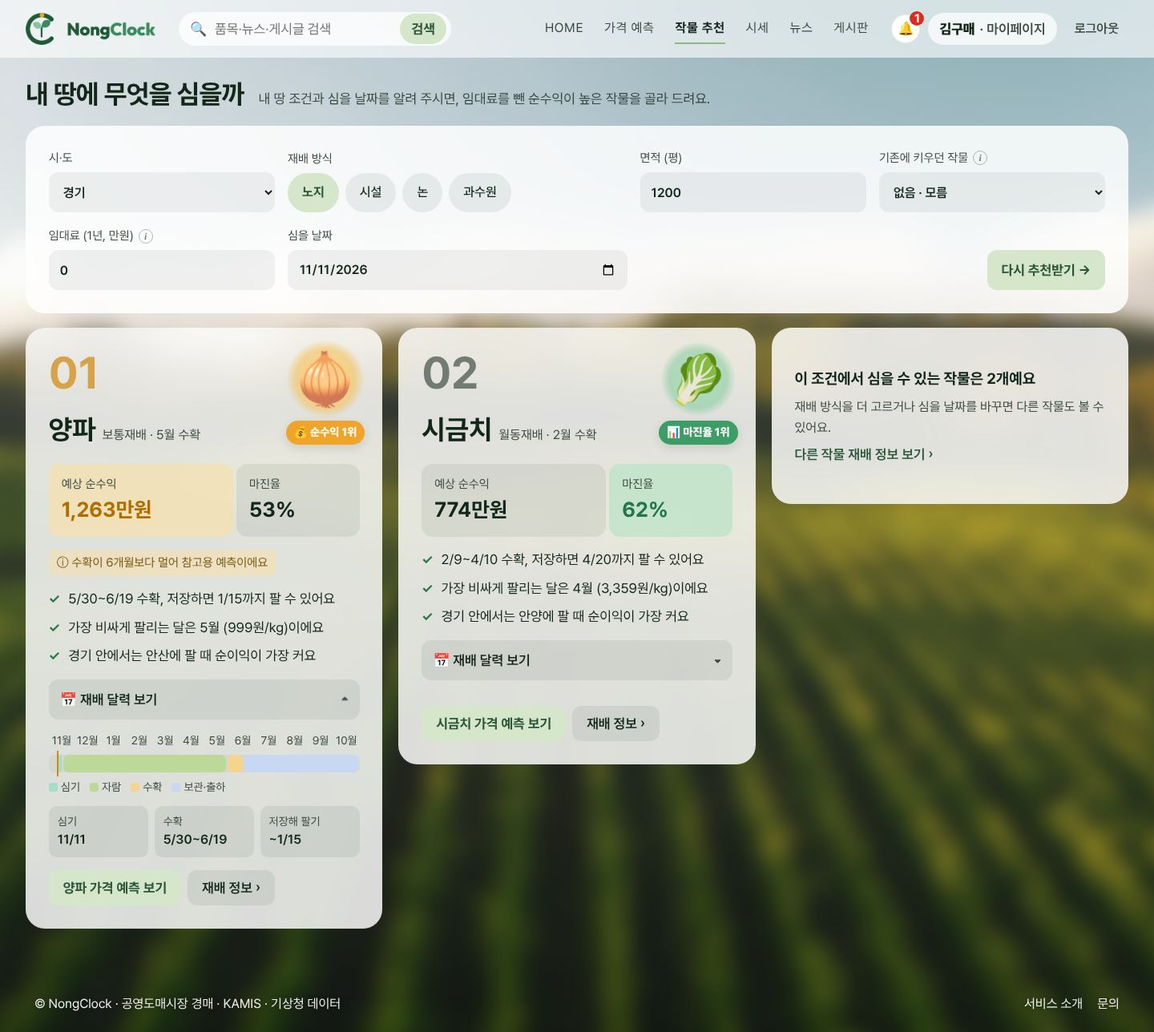
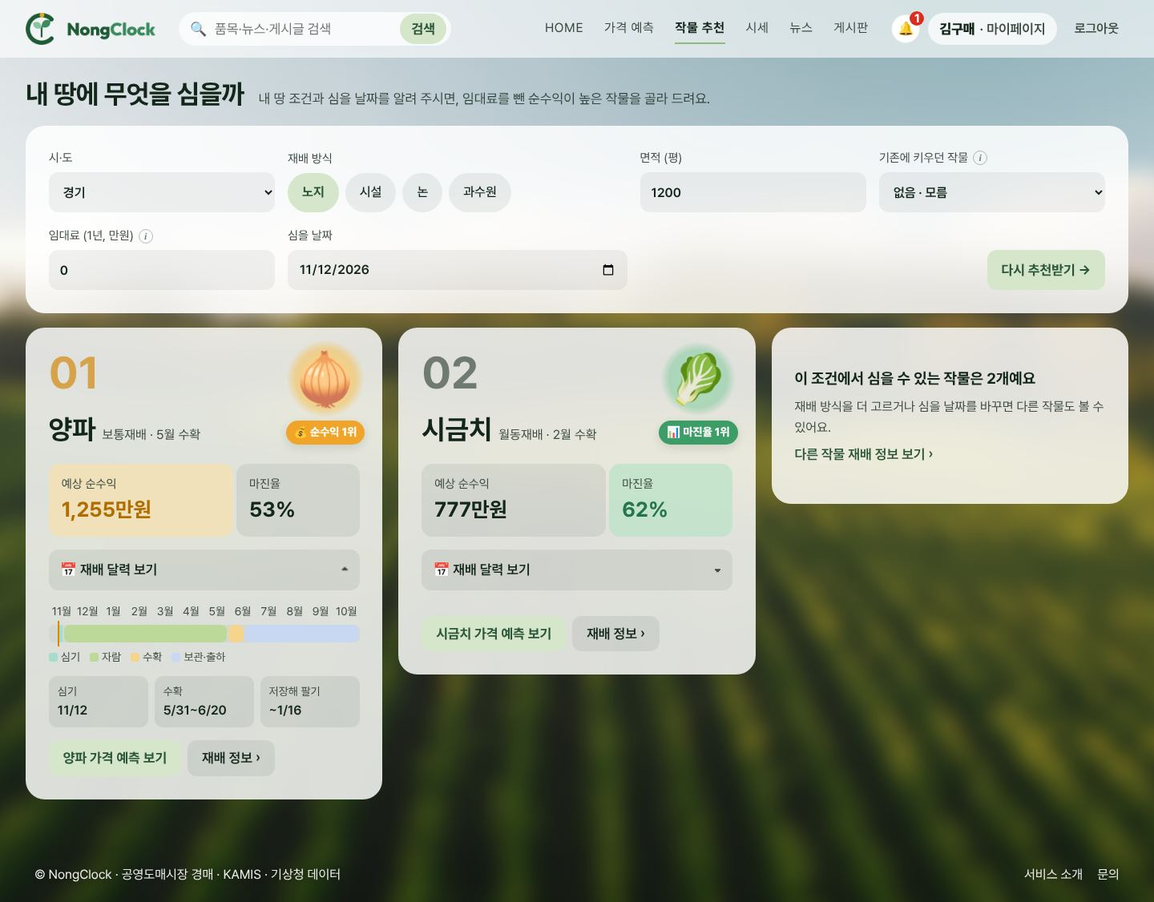
feat(frontend): 가격 예측 계절 패턴·월별 반입량 카드 · 그래프 카드 높이 맞춤 · 작물 추천 문구 정리
가격 예측
- 결과 아래에 "계절 패턴"(월평균 경락가: 평년 · 올해 실제 · 남은 달 예측)과
  "월별 반입량"(평년 · 올해, 이번 달은 오늘까지) 카드 추가 (components/SeasonCharts.jsx)
  - 아직 예시 데이터(mocks/seasonal.js, 제목 옆 "예시 데이터"). 실제 연결 제안 GET /api/prices/{item}/monthly
- 그래프 카드가 오른쪽 열 높이만큼 늘어나고 그래프가 남는 높이를 채움 (아래 빈 공간 없음)
- "6개월보다 먼 예측이라 참고용" 안내 뺌 (예측이 덜 정확한 품목·기간 안내는 유지)

작물 추천
- 카드의 추천 이유 3줄(수확·저장 · 비싼 달 · 시장) 뺌 — 작물 정보 "추천 결과"에서만
- "수확이 6개월보다 멀어 참고용" 안내를 모든 작물에서 뺌

- UI 설계서 변경 이력 · 캡처 교체

Claude-Session: https://claude.ai/code/session_01A5Bz2YFgwDEj3wEsMnATng

diff --git a/frontend/src/pages/Predict.jsx b/frontend/src/pages/Predict.jsx
@@ -1,9 +1,10 @@
-import { useRef, useState } from "react";
+import { useEffect, useRef, useState } from "react";
 import { useSearchParams } from "react-router-dom";
 import { getItems, predict } from "../api/ml";
 import { getMarkets } from "../api/market";
 import { Async, useAsync, useNarrow } from "../components/common";
 import PredictSearch, { marketsIn, regionsOf } from "../components/PredictSearch";
+import SeasonCharts from "../components/SeasonCharts";
 import { ITEMS50, itemOf, varietyFactor, varietyOf } from "../mocks/items50";
 import { LOW_ACCURACY } from "../mocks/accuracy";
 import { addDays, daysBetween, md, todayIso, won } from "../utils/format";
@@ -51,9 +52,27 @@ function checkpoints(p, horizon) {
 }
 
 /** 그래프: 시장마다 선 (지난 8주 얇게 → 예측 굵게). 시장 하나면 예측 범위 띠 */
+/** 그래프 칸 크기 (넓은 화면은 카드가 오른쪽 열 높이만큼 늘어나고, 그래프가 남는 높이를 채움) */
+function useBox() {
+  const ref = useRef(null);
+  const [box, setBox] = useState(null);
+  useEffect(() => {
+    const el = ref.current;
+    if (!el || typeof ResizeObserver === "undefined") return undefined;
+    const ro = new ResizeObserver(([e]) => setBox({ w: e.contentRect.width, h: e.contentRect.height }));
+    ro.observe(el);
+    return () => ro.disconnect();
+  }, []);
+  return [ref, box];
+}
+
 function Chart({ series, horizon }) {
   const narrow = useNarrow();
-  const W = narrow ? 420 : 900, H = narrow ? 380 : 360, L = narrow ? 52 : 64, R = narrow ? 14 : 24, T = 30, B = 40;
+  const [boxRef, box] = useBox();
+  const W = narrow ? 420 : 900;
+  // 칸의 가로세로 비율대로 그림 높이를 정함 (글씨 크기는 그대로, 세로로 늘어남)
+  const H = box?.w ? Math.max(narrow ? 340 : 300, Math.min(narrow ? 520 : 560, Math.round((box.h / box.w) * W))) : narrow ? 380 : 360;
+  const L = narrow ? 52 : 64, R = narrow ? 14 : 24, T = 30, B = 40;
   const one = series.length === 1 ? series[0] : null;
   const all = [...series[0].past, ...series[0].fut]; // x 축 = 첫 시장 기준 (시장마다 날짜는 같음)
   const k = series[0].past.length - 1;
@@ -80,6 +99,7 @@ function Chart({ series, horizon }) {
   })();
   const pts = (arr) => arr.map((x) => `${X(x.date)},${Y(x.price)}`).join(" ");
   return (
+    <div className="pv-chartbox" ref={boxRef}>
     <svg className="pv-chart" viewBox={`0 0 ${W} ${H}`} role="img" aria-label={`지난 8주 실제 가격과 ${afterLabel(horizon)}까지 예측, 시장별`}>
       {ticks.map((v) => (
         <g key={v}>
@@ -106,6 +126,7 @@ function Chart({ series, horizon }) {
       ))}
       <circle cx={X(now)} cy={Y(series[0].past[k].price)} r="4.5" fill="#13261a" />
     </svg>
+    </div>
   );
 }
 
@@ -162,7 +183,7 @@ function MarketCards({ series, horizon }) {
 }
 
 function Result({ r }) {
-  const { series, horizon, regionName, itemName, item } = r;
+  const { series, horizon, regionName, itemName, item, baseName } = r;
   if (!series.length) return <div className="card state">이 지역 도매시장에서는 이 품목을 거래하지 않아요. 다른 지역을 골라 주세요.</div>;
   const top = series.reduce((a, s) => (s.best.price > a.best.price ? s : a));
   const gain = top.best.price - top.base;
@@ -214,11 +235,13 @@ function Result({ r }) {
           </div>
           <ul className="pv-notes">
             {p.alerts.map((a) => <li key={a.start}><span className="ic warn">⚠</span>{md(a.start)}~{md(a.end)} 이상기후 주의 · 이 기간 예측은 참고만 하세요</li>)}
-            {p.reference && <li><span className="ic">🔖</span>{p.reference === "far" ? "6개월보다 먼 예측이라 참고용이에요" : "이 품목·기간은 예측이 덜 정확해 참고용이에요"}</li>}
-            {!p.alerts.length && !p.reference && <li><span className="ic ok">✓</span>이 기간에는 이상기후 주의 구간이 없어요</li>}
+            {p.reference === "baseline" && <li><span className="ic">🔖</span>이 품목·기간은 예측이 덜 정확해 참고용이에요</li>}
+            {!p.alerts.length && p.reference !== "baseline" && <li><span className="ic ok">✓</span>이 기간에는 이상기후 주의 구간이 없어요</li>}
           </ul>
         </section>
       </div>
+      {/* 계절 패턴 · 월별 반입량 (품목 단위, 전국) — 예시 데이터는 지금 시세 평균에 맞춰 크기 조정 */}
+      <div className="pv-wide"><SeasonCharts item={item} itemName={baseName} anchor={Math.round(series.reduce((a, s) => a + s.base, 0) / series.length)} /></div>
     </div>
   );
 }
@@ -265,7 +288,7 @@ export default function Predict() {
     });
     const regionName = q.region === "national" ? "전국 도매시장" : `${q.region} 도매시장 ${ms.length}곳`;
     const itemName = (res[0]?.item_name ?? itemOf(q.item)?.name) + (variety ? ` ${variety.label}` : "");
-    return { series, horizon, regionName, itemName, item: q.item };
+    return { series, horizon, regionName, itemName, item: q.item, baseName: res[0]?.item_name ?? itemOf(q.item)?.name ?? "" };
   }, [!!opts, q.region, q.item, q.variety, q.to]);
   const search = (d) => setParams({ item: d.item, ...(d.variety ? { variety: d.variety } : {}), region: d.region, to: d.to }, { replace: true });
 

diff --git a/frontend/src/components/SeasonCharts.jsx b/frontend/src/components/SeasonCharts.jsx
@@ -1,0 +1,95 @@
+import { getSeasonal } from "../api/market";
+import { Async, useAsync, useNarrow } from "./common";
+import { won } from "../utils/format";
+
+/* 가격 예측 화면 아래 "계절 패턴 · 월별 반입량" 두 카드 (11-12 샘플)
+   계절 패턴: 월평균 경락가 — 평년(최근 5년 평균, 회색) · 올해 실제(검정) · 남은 달 예측(주황 점선)
+   월별 반입량: 도매시장에 들어온 양(톤) — 평년 · 올해 (이번 달은 오늘까지라 속이 빈 점)
+   데이터: getSeasonal(item) — 지금은 예시 데이터 (Spring API 생기면 api/market.js 안쪽만 바꿈) */
+const C = { normal: "#7c867f", actual: "#13261a", forecast: "#d9600b" };
+const niceStep = (range) => [1, 2, 5, 10, 20, 50, 100, 200, 500, 1000, 2000, 5000, 10000, 20000].find((s) => range / s <= 5) ?? 50000;
+
+function MonthChart({ lines, label, unit }) {
+  const narrow = useNarrow();
+  const W = narrow ? 420 : 640, H = narrow ? 300 : 280, L = narrow ? 58 : 66, R = 16, T = 18, B = 34;
+  const vals = lines.flatMap((l) => l.data.filter((v) => v != null));
+  const step = niceStep(Math.max(...vals) - Math.min(0, ...vals) || 1);
+  const lo = unit === "톤" ? 0 : Math.floor(Math.min(...vals) / step) * step; // 물량은 0부터
+  const hi = Math.ceil(Math.max(...vals) / step) * step;
+  const X = (m) => L + ((m - 1) * (W - L - R)) / 11;
+  const Y = (v) => T + ((hi - v) / (hi - lo || 1)) * (H - T - B);
+  const ticks = [];
+  for (let v = lo; v <= hi; v += step) ticks.push(v);
+  const path = (data) => data.map((v, i) => (v == null ? null : `${X(i + 1)},${Y(v)}`)).filter(Boolean).join(" ");
+  return (
+    <svg className="sc-chart" viewBox={`0 0 ${W} ${H}`} role="img" aria-label={label}>
+      {ticks.map((v) => (
+        <g key={v}>
+          <line x1={L} x2={W - R} y1={Y(v)} y2={Y(v)} stroke="rgba(19,38,26,.08)" />
+          <text x={L - 10} y={Y(v) + 5} textAnchor="end" fontSize="14" fill="rgba(19,38,26,.75)">{won(v)}</text>
+        </g>
+      ))}
+      {Array.from({ length: 12 }, (_, i) => i + 1).filter((m) => !narrow || m % 2 === 1).map((m) => (
+        <text key={m} x={X(m)} y={H - 8} textAnchor="middle" fontSize="14" fill="rgba(19,38,26,.75)">{m}월</text>
+      ))}
+      {lines.map((l) => (
+        <g key={l.key}>
+          <polyline points={path(l.data)} fill="none" stroke={l.color} strokeWidth={l.key === "normal" ? 2 : 2.5}
+            strokeDasharray={l.dash ? "7 6" : undefined} strokeLinejoin="round" />
+          {l.data.map((v, i) => v != null && !(l.dash && i === l.data.findIndex((x) => x != null)) && (
+            <circle key={i} cx={X(i + 1)} cy={Y(v)} r={l.key === "normal" ? 3.5 : 4.5}
+              fill={l.hollow === i + 1 ? "#fff" : l.color} stroke={l.color} strokeWidth="2" />
+          ))}
+        </g>
+      ))}
+    </svg>
+  );
+}
+
+function Card({ title, sub, sample, legend, children, src }) {
+  return (
+    <section className="card sc-card">
+      <div className="sc-head">
+        <h2>{title}</h2><span className={`sc-tag ${sample ? "ex" : ""}`}>{sample ? "예시 데이터" : "실제"}</span>
+      </div>
+      <p className="sc-sub">{sub}</p>
+      <div className="sc-legend">{legend.map(([t, c, dash]) => <span key={t}><i className={dash ? "dash" : ""} style={{ "--c": c }} />{t}</span>)}</div>
+      {children}
+      <p className="sc-src"><b>자료</b> {src}</p>
+    </section>
+  );
+}
+
+export default function SeasonCharts({ item, itemName, anchor }) {
+  const state = useAsync(() => getSeasonal(item, { anchor }), [item, anchor]);
+  return (
+    <Async state={state} minHeight={360}>
+      {(d) => {
+        const [y0, y1] = d.normal_years;
+        return (
+          <div className="sc-grid">
+            <Card title="계절 패턴" sample={d.sample} src={d.source}
+              sub={`${itemName} 월평균 경락가 (원/kg, 전국) · 평년 = ${y0}~${y1}년 평균`}
+              legend={[["평년", C.normal], [`${d.year}년`, C.actual], ["예측", C.forecast, true]]}>
+              <MonthChart unit="원" label={`${itemName} 월평균 경락가: 평년, ${d.year}년 실제와 예측`}
+                lines={[
+                  { key: "normal", data: d.price.normal, color: C.normal },
+                  { key: "actual", data: d.price.actual, color: C.actual },
+                  { key: "forecast", data: d.price.forecast, color: C.forecast, dash: true },
+                ]} />
+            </Card>
+            <Card title="월별 반입량" sample={d.sample} src={`${d.source} · 국산 물량`}
+              sub={`도매시장에 들어온 ${itemName} 물량 (톤) · ${d.volume.partial_month}월은 오늘까지`}
+              legend={[["평년", C.normal], [`${d.year}년`, C.actual]]}>
+              <MonthChart unit="톤" label={`${itemName} 월별 반입량: 평년과 ${d.year}년`}
+                lines={[
+                  { key: "normal", data: d.volume.normal, color: C.normal },
+                  { key: "actual", data: d.volume.actual, color: C.actual, hollow: d.volume.partial_month },
+                ]} />
+            </Card>
+          </div>
+        );
+      }}
+    </Async>
+  );
+}

diff --git a/frontend/src/pages/Recommend.jsx b/frontend/src/pages/Recommend.jsx
@@ -41,7 +41,8 @@ function reasonLines(o, region) {
   if (o.ph) out.push(PH_LINE[o.ph.kind](o));
   return out;
 }
-const refLine = (o) => ({ far: "수확이 6개월보다 멀어 참고용 예측이에요", baseline: "이 작물·기간은 예측이 덜 정확해 참고용이에요" })[o.reference] ?? "";
+// 참고용 안내는 예측이 덜 정확한 작물·기간만 (수확이 멀다는 이유로는 띄우지 않음, 11-12)
+const refLine = (o) => (o.reference === "baseline" ? "이 작물·기간은 예측이 덜 정확해 참고용이에요" : "");
 
 const request = (f) => ({
   region: f.region,
@@ -132,7 +133,7 @@ function MiniCalendar({ o }) {
   );
 }
 
-function CropCard({ o, rank, region, topProfit, topRate, goInfo }) {
+function CropCard({ o, rank, topProfit, topRate, goInfo }) {
   const [open, setOpen] = useState(rank === 0);
   const profit = o === topProfit, rate = o === topRate;
   return (
@@ -148,8 +149,7 @@ function CropCard({ o, rank, region, topProfit, topRate, goInfo }) {
         <div className={profit ? "hi-profit" : ""}><span>예상 순수익</span><b>{man(o.margin)}</b></div>
         <div className={rate ? "hi-rate" : ""}><span>마진율</span><b>{Math.round(o.margin_rate)}%</b></div>
       </div>
-      {o.reference && <span className="rc-ref">ⓘ {refLine(o)}</span>}
-      <ul className="rc-why">{reasonLines(o, region).map((w) => <li key={w}>{w}</li>)}</ul>
+      {refLine(o) && <span className="rc-ref">ⓘ {refLine(o)}</span>}
       <button type="button" className="rc-toggle" aria-expanded={open} onClick={() => setOpen(!open)}><span>📅 재배 달력 보기</span><span className="ar">▾</span></button>
       <div className="rc-exp"><div><MiniCalendar o={o} /></div></div>
       <div className="rc-acts">
@@ -171,7 +171,7 @@ function Results({ state, form, goInfo }) {
         return (
           <>
             <div className="rc-top3">
-              {top.map((o, i) => <CropCard key={o.crop + o.cropping} o={o} rank={i} region={form.region} topProfit={topProfit} topRate={topRate} goInfo={goInfo} />)}
+              {top.map((o, i) => <CropCard key={o.crop + o.cropping} o={o} rank={i} topProfit={topProfit} topRate={topRate} goInfo={goInfo} />)}
               {top.length < 3 && (
                 <div className="card rc-few">
                   <b>이 조건에서 심을 수 있는 작물은 {top.length}개예요</b>
@@ -265,7 +265,7 @@ function WhyCard({ crop, cropName, emoji, rec, form, info, goLand }) {
           <span className="rc-badge">🏆 내 조건에서 {rank + 1}위</span>
           <p className="rc-txt">{form.region} {LAND_TYPES[form.type]} {won(form.area)}평에 <b>{md(o.plant_date)}</b> 심으면 임대료를 빼고<br /><b>약 {man(o.margin)}</b>이 남을 것으로 보여요.</p>
           <div className="rc-nums"><div><span>예상 순수익</span><b>{man(o.margin)}</b></div><div><span>마진율</span><b>{Math.round(o.margin_rate)}%</b></div><div><span>수확</span><b>{md(o.harvest_start)}~{md(o.harvest_end)}</b></div></div>
-          {o.reference && <span className="rc-ref">ⓘ {refLine(o)}</span>}
+          {refLine(o) && <span className="rc-ref">ⓘ {refLine(o)}</span>}
           <ul className="rc-why">{[...reasonLines(o, form.region), ...(windowLine ? [windowLine] : [])].map((t) => <li key={t}>{t}</li>)}</ul>
         </>
       ) : (

diff --git a/frontend/src/mocks/seasonal.js b/frontend/src/mocks/seasonal.js
@@ -1,0 +1,39 @@
+// [샘플] 가격 예측 화면의 "계절 패턴 · 월별 반입량" 예시 데이터 (전국 도매시장, 품목 단위).
+// 실제는 경매원장(price_unit_daily) 월별 집계: 월평균 경락가 = 그 달 총 금액 ÷ 총 물량, 반입량 = 그 달 총 물량(톤).
+// 평년 = 최근 5년(올해 빼고) 같은 달 평균. 올해는 이번 달까지 실제, 남은 달은 예측.
+import { ITEMS50 } from "./items50";
+import { seeded, todayIso } from "../utils/format";
+
+const r0 = (n) => Math.round(n);
+export function mockSeasonal(item, { anchor, today = todayIso() } = {}) {
+  const r = seeded(`seasonal|${item}`);
+  const year = Number(today.slice(0, 4));
+  const cur = Number(today.slice(5, 7)); // 이번 달 (1~12)
+  const idx = Math.max(0, ITEMS50.findIndex((i) => i.code === item));
+  const base = 800 + ((idx * 937) % 4200) + r() * 600; // 품목마다 다른 가격대 (원/kg)
+  const peak = 1 + Math.floor(r() * 12); // 가장 비싼 달
+  const amp = 0.15 + r() * 0.25;
+  const curve = (m) => 1 + amp * Math.cos((2 * Math.PI * (m - peak)) / 12);
+  const tons = 2000 + r() * 28000; // 한 달 반입량 규모 (톤)
+  const harvest = ((peak + 5) % 12) + 1; // 물량은 대개 가격이 낮은 철에 많다
+  const vcurve = (m) => Math.max(0.03, 1 + 0.9 * Math.cos((2 * Math.PI * (m - harvest)) / 12));
+  const months = Array.from({ length: 12 }, (_, i) => i + 1);
+  const normal = months.map((m) => r0(base * curve(m) * (0.95 + r() * 0.1)));
+  const actual = months.map((m) => (m <= cur ? r0(base * curve(m) * (0.8 + r() * 0.45)) : null));
+  // 예측: 이번 달 실제에서 이어서 계절 흐름대로 (이번 달 점에서 시작)
+  const forecast = months.map((m) => (m < cur ? null : m === cur ? actual[m - 1] : r0((actual[cur - 1] * curve(m)) / curve(cur) * (0.97 + r() * 0.06))));
+  // 예시 데이터를 예측 화면의 지금 시세(anchor)에 맞춰 크기만 조정 (그래프 사이 숫자가 어긋나 보이지 않게)
+  if (anchor && actual[cur - 1]) {
+    const f = anchor / actual[cur - 1];
+    for (const arr of [normal, actual, forecast]) arr.forEach((v, i) => { if (v != null) arr[i] = r0(v * f); });
+  }
+  const vNormal = months.map((m) => r0(tons * vcurve(m) * (0.9 + r() * 0.2)));
+  const vActual = months.map((m) => (m <= cur ? r0(tons * vcurve(m) * (0.75 + r() * 0.5) * (m === cur ? Number(today.slice(8, 10)) / 30 : 1)) : null));
+  return {
+    item, year, current_month: cur, normal_years: [year - 5, year - 1],
+    price: { normal, actual, forecast },
+    volume: { normal: vNormal, actual: vActual, partial_month: cur },
+    source: `경매원장 ${year - 6}~${year} 월별`,
+    sample: true,
+  };
+}

diff --git a/frontend/src/pages/predict.css b/frontend/src/pages/predict.css
@@ -86,3 +86,29 @@
 @media (max-width: 1200px) { .pv-quick { grid-column: 2; } }  /* 3칸: 날짜는 둘째 줄 가운데 */
 @media (max-width: 640px) { .pv-quick { grid-column: 1; grid-template-columns: 1fr 1fr; } }   /* 2칸: 날짜는 셋째 줄 왼쪽, 버튼은 두 줄 */
 @media (max-width: 640px) { .pv-fields select.input { font-size: 16px; padding-left: 12px; } }
+
+/* 계절 패턴 · 월별 반입량 (11-12) */
+.pv-wide { grid-column: 1 / -1; min-width: 0; }
+.sc-grid { display: grid; grid-template-columns: repeat(2, minmax(0, 1fr)); gap: 20px; }
+.sc-card { display: grid; gap: 8px; }
+.sc-head { display: flex; align-items: center; gap: 10px; }
+.sc-head h2 { margin: 0; font-size: 22px; }
+.sc-tag { font-size: 13px; font-weight: 700; padding: 3px 10px; border-radius: 999px; background: var(--accent); color: var(--brand); }
+.sc-tag.ex { background: rgba(19, 38, 26, 0.07); color: rgba(19, 38, 26, 0.7); }
+.sc-sub { margin: 0; font-size: 15px; color: var(--muted); }
+.sc-legend { display: flex; gap: 18px; flex-wrap: wrap; font-size: 15px; color: rgba(19, 38, 26, 0.85); margin-top: 4px; }
+.sc-legend span { display: inline-flex; align-items: center; gap: 7px; }
+.sc-legend i { width: 18px; height: 0; border-top: 3px solid var(--c); }
+.sc-legend i.dash { border-top-style: dashed; }
+.sc-chart { width: 100%; height: auto; display: block; }
+.sc-src { margin: 0; font-size: 14px; color: var(--muted); } .sc-src b { color: var(--ink); margin-right: 4px; }
+@media (max-width: 1200px) { .sc-grid { grid-template-columns: 1fr; } }
+
+/* 그래프 카드가 오른쪽 열 높이에 맞춰 늘어나고, 그래프가 남는 높이를 채움 (아래 빈 공간 없음, 11-12) */
+.pv-grid { align-items: stretch; }
+.pv-side { align-content: start; }
+.pv-main { display: flex; flex-direction: column; }
+.pv-chartbox { position: relative; flex: 1 1 auto; min-height: 320px; margin-top: 8px; }
+.pv-chartbox .pv-chart { position: absolute; inset: 0; width: 100%; height: 100%; margin: 0; }
+@media (max-width: 1200px) { .pv-chartbox { flex: none; min-height: 0; aspect-ratio: 900 / 380; } }
+@media (max-width: 640px) { .pv-chartbox { aspect-ratio: 420 / 400; } }

diff --git a/frontend/src/api/market.js b/frontend/src/api/market.js
@@ -8,6 +8,7 @@ import {
 } from "../mocks/market";
 import { mockRegionalWeather } from "../mocks/weather";
 import { mockMarketIndex } from "../mocks/marketIndex";
+import { mockSeasonal } from "../mocks/seasonal";
 import { varietyFactor, varietyOf } from "../mocks/items50";
 
 // [샘플] 품종: 화면은 item 자리에 "품목코드~품종id" 를 넘긴다. 품종 가격 = 품목 가격 × 품종 계수, 반입량 = 품목 반입량 × 품종 물량 비중
@@ -88,3 +89,6 @@ export const getMarketCompare = (item) => (REAL ? real("/prices/{item}/markets")
 
 /** 홈 날씨 지도: 시·도 17곳의 오늘 날씨와 특보 (테스트 모드에서는 기상청 실제 값) */
 export const getRegionalWeather = () => (DATA_SOURCE === "live" ? liveRegionalWeather() : fake(mockRegionalWeather()));
+
+/** [샘플] 계절 패턴 · 월별 반입량 (가격 예측 화면). 아직 Spring API 없음 → 예시 데이터. 제안: GET /api/prices/{item}/monthly */
+export const getSeasonal = (item, { anchor } = {}) => fake(mockSeasonal(item, { anchor }));

diff --git a/docs/05_ui_spec.md b/docs/05_ui_spec.md
@@ -100,14 +100,17 @@ NongClock(농클락, 옛 이름 팜비드) 사용자 사이트(`/`)와 관리자
 | 구역 | 보여 주는 것 |
 |---|---|
 | 큰 가격 | "품목 · 서울 도매시장 2곳 · 오늘부터 n주/n개월 뒤(날짜)까지" · **가장 비싼 시장·때의 예상가** · 그 시장 지금보다 ▲/▼ % · 정확도 낮은 품목은 "❗ 예측 정확도가 낮은 품목이에요" |
-| 그래프 (주 단위) | **지역 안 도매시장마다 색깔 선 하나** (예: 서울 = 서울가락 · 서울강서, 경기 = 수원 · 안양 · 안산 · 구리). 옅은 선 = 지난 8주 실제, 굵은 선 = 예측, 시장마다 가장 비싼 때에 점. x 축은 날짜 비례(지금 · n주/n개월 뒤 이름표). 시장이 하나일 때만 예측 범위 띠. 작년 같은 시기 선은 없음(11-11 뺌) |
+| 그래프 (주 단위) | 컴퓨터 화면에서는 카드가 오른쪽 열 높이만큼 늘어나고 그래프가 남는 높이를 채움(아래 빈 공간 없음). **지역 안 도매시장마다 색깔 선 하나** (예: 서울 = 서울가락 · 서울강서, 경기 = 수원 · 안양 · 안산 · 구리). 옅은 선 = 지난 8주 실제, 굵은 선 = 예측, 시장마다 가장 비싼 때에 점. x 축은 날짜 비례(지금 · n주/n개월 뒤 이름표). 시장이 하나일 때만 예측 범위 띠. 작년 같은 시기 선은 없음(11-11 뺌) |
 | 시장 비교 | 시장이 둘 이상이면 "서울가락 지금 832원 → 최고 930원 (4주 뒤)" 칸을 시장마다, 가장 비싼 시장 강조 |
 | 출하 추천 | "출하 추천: 시장 · n월 n주차 (날짜 무렵)" + 지금보다 kg당 더 받는 금액. 지금보다 비싼 때가 없으면 "출하 추천: 지금" |
 | 시장별 예측 (오른쪽) | **시장마다 한 장**, ‹ › 버튼 · 아래 점 · 휴대폰은 옆으로 밀어서 넘김. 예측 날짜가 2개월까지면 **주별**(1주 뒤 …), 더 길면 **달별**(1개월 뒤 …) · 기간 · 예상가 · 범위 · 지금 대비 %. 지금보다 비싼 가장 높은 줄에 "출하 추천" |
-| 이 예측, 믿을 만한가요? | 신뢰도 고리(100 − 오차) · 예측 오차 ±% (예측 날짜 기준) · ⚠ 이상기후 주의 기간 · 🔖 참고용(6개월보다 먼 예측) |
+| 이 예측, 믿을 만한가요? | 신뢰도 고리(100 − 오차) · 예측 오차 ±% (예측 날짜 기준) · ⚠ 이상기후 주의 기간 · 🔖 참고용(검증 오차가 기준선보다 나쁜 품목·기간만. 6개월보다 멀다는 이유로는 띄우지 않음, 11-12) |
+| **계절 패턴** (아래 왼쪽) | 품목 월평균 경락가(원/kg, 전국) 1~12월: 평년(최근 5년 평균, 회색) · 올해 실제(검정) · 이번 달부터 남은 달 예측(주황 점선). `components/SeasonCharts.jsx` |
+| **월별 반입량** (아래 오른쪽) | 도매시장에 들어온 품목 물량(톤) 1~12월: 평년 · 올해 (이번 달은 오늘까지라 속 빈 점). 좁은 화면은 두 카드가 위아래로 |
 
 ![정확도 낮은 품목](ui/02b_predict_lowacc.jpg)
 
+- 계절 패턴 · 월별 반입량은 아직 **예시 데이터**(제목 옆 "예시 데이터", `mocks/seasonal.js`, 지금 시세에 맞춰 크기만 조정). 실제 연결 제안: `GET /api/prices/{item}/monthly` — 경매원장 월별 집계(월평균 = 총 금액 ÷ 총 물량, 반입량 = 총 물량)
 - API 1-4 `POST /predict` 를 **지역 안 시장마다 한 번씩** — `market`, `horizon`(오늘 ~ 예측 날짜, 1~365), `history_days: 56`. 품종 가격은 아직 가짜(품목 예측 × 품종 계수)
 
 ---
@@ -134,8 +137,8 @@ NongClock(농클락, 옛 이름 팜비드) 사용자 사이트(`/`)와 관리자
 **결과 TOP3 카드** — 순위(01~03, 굵게) · 작물 그림 · 이름 · 작형 · 수확 달
 
 - **순수익 1위**(주황 "💰 순수익 1위") · **마진율 1위**(초록 "📊 마진율 1위") 카드는 그림 부분을 강조
-- 예상 순수익 · 마진율 상자 · 참고용 안내 ("가격이 ±n% 달라지면" 줄과 아래 계산식 문구는 11-11 뺌)
-- 추천 이유 3줄 (API 값으로 만든 정해진 문장): 수확·저장 기간 · 가장 비싸게 팔리는 달 · 지역 안에서 순수익이 가장 큰 시장
+- 예상 순수익 · 마진율 상자 · 참고용 안내(예측이 덜 정확한 작물·기간만. "수확이 6개월보다 멀어 참고용"은 11-12 뺌). "가격이 ±n% 달라지면" 줄과 계산식 문구는 11-11 뺌
+- 추천 이유 문장(수확·저장 기간 · 비싼 달 · 시장)은 카드에서 뺌(11-12) — 작물 정보의 "추천 결과" 카드에서만 보여 줌
 - 📅 재배 달력 보기(펼침) · [작물 가격 예측 보기] (50품목만) · [재배 정보 ›]
 - 결과가 3개보다 적으면 빈 칸에 "이 조건에서 심을 수 있는 작물은 n개예요" 안내
 - API 1-6 `POST /recommend/crops` (`lands[]`, `start_date`)
@@ -273,3 +276,4 @@ API 2-8 ~ 2-11
 | 2026-11-11 | 안쪽 스크롤바(가격 예측 시장별 목록 · 작물 고르기 목록 · 재배 달력 · 표 · 검색 자동완성 · 휴대폰 메뉴)를 회색 기본 막대 대신 얇고 옅은 둥근 막대로 (위아래 화살표 없음) | |
 | 2026-11-11 | 로고 옆 "농산물 가격 예측" 글자 뺌 · 모든 화면 제목 굵게. 작물 추천: 흙 pH·임대료 설명을 칸 이름 옆 ⓘ 말풍선으로, 순위 숫자 굵게, "가격이 ±n% 달라지면" 줄·계산식 문구 뺌. **홈 날씨 카드를 서버 날씨 수집기 관측(어제 기준)에 연결** (안 쓰던 `WeatherMap` · `RecentWeather` 삭제). 캡처 `01`~`10`, `12_m_*` 교체 | |
 | 2026-11-11 | **사이트 이름 NongClock 으로 통일** — 헤더 로고를 팀 시안 20번(C 링 새싹) 이미지로, 브라우저 탭 아이콘 추가, 탭 제목·바닥글·서비스 소개·뉴스·검색 문구·관리자 로고의 "팜비드/FarmBid" → NongClock, 문의 메일 예시 contact@nongclock.kr. 캡처 모두 교체 | |
+| 2026-11-12 | 가격 예측: 아래에 **계절 패턴 · 월별 반입량** 카드(예시 데이터), 그래프 카드 아래 빈 공간 없앰(오른쪽 열 높이에 맞춰 그래프가 늘어남), "6개월보다 먼 예측이라 참고용" 안내 뺌. 작물 추천: 카드의 추천 이유 3줄 · "수확이 멀어 참고용" 안내 뺌. 캡처 `02_predict` · `02b_predict_lowacc` · `03_recommend` · `12_m_predict` · `12_m_recommend` 교체 | |
